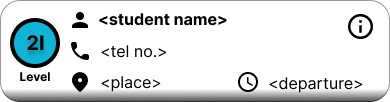
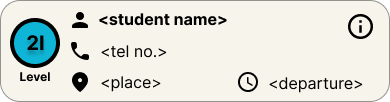
students list done

Changed region(s): [[0.0, 0.8824, 1.0, 1.0]]

diff --git a/app/src/main/java/com/example/timecontrol/StudentsScreen.kt b/app/src/main/java/com/example/timecontrol/StudentsScreen.kt
@@ -1,45 +1,38 @@
 package com.example.timecontrol
 
-import android.widget.Toast
-import androidx.compose.foundation.background
+import androidx.compose.foundation.BorderStroke
+import androidx.compose.foundation.border
 import androidx.compose.foundation.layout.Arrangement
 import androidx.compose.foundation.layout.Box
-import androidx.compose.foundation.layout.Column
-import androidx.compose.foundation.layout.Row
+import androidx.compose.foundation.layout.fillMaxSize
 import androidx.compose.foundation.layout.fillMaxWidth
-import androidx.compose.foundation.layout.height
 import androidx.compose.foundation.layout.padding
 import androidx.compose.foundation.layout.size
-import androidx.compose.foundation.layout.width
 import androidx.compose.foundation.lazy.LazyColumn
-import androidx.compose.material3.Divider
+import androidx.compose.material3.FloatingActionButton
 import androidx.compose.material3.Icon
-import androidx.compose.material3.IconButton
-import androidx.compose.material3.Text
 import androidx.compose.runtime.Composable
 import androidx.compose.ui.Alignment
 import androidx.compose.ui.Modifier
 import androidx.compose.ui.graphics.Color
-import androidx.compose.ui.platform.LocalContext
 import androidx.compose.ui.res.painterResource
-import androidx.compose.ui.text.font.FontWeight
 import androidx.compose.ui.unit.dp
-import androidx.compose.ui.unit.sp
-import com.example.timecontrol.calendaritem.CalendarItem
-import com.example.timecontrol.data.dto.Quote
 import com.example.timecontrol.database.Student
-import com.example.timecontrol.quote.Quote
-import com.example.timecontrol.statstile.StatsTile
 import com.example.timecontrol.studentslistitem.StudentsListItem
-import com.example.timecontrol.ui.theme.Blue20
-import java.time.format.DateTimeFormatter
+import com.example.timecontrol.ui.theme.Blue10
+import com.example.timecontrol.ui.theme.BlueLogo
+import com.example.timecontrol.ui.theme.White80
 
 @Composable
 fun StudentsScreen(students: List<Student>) {
-    LazyColumn(
-        modifier = Modifier.fillMaxWidth(),
-        verticalArrangement = Arrangement.spacedBy(3.dp)
-    ) {
+    Box(modifier = Modifier.fillMaxSize())
+    {
+        LazyColumn(
+            modifier = Modifier.fillMaxWidth(),
+            verticalArrangement = Arrangement.spacedBy(3.dp)
+
+            //uncomment when database connected
+        ) {
 //        students.forEachIndexed { index, student ->
 //            item(index) {
 //                StudentsListItem(
@@ -50,23 +43,43 @@ fun StudentsScreen(students: List<Student>) {
 //                    departureDate = student.departureDate.format(DateTimeFormatter.ofPattern("dd.MM"))
 //                        .toString(),
 //                    onClick = {},
+//        background = if (it % 2 == 0) White80 else Blue10,
 //                    modifier = Modifier
 //                        .width(390.dp)
 //                        .height(102.dp)
 //                )
 //            }
+            //comment when database connected
+            items(20) {
+                StudentsListItem(
+                    level = "D",
+                    name = "Tomek",
+                    telNo = "123456789",
+                    placeOfStay = "Chałupy",
+                    departureDate = "10.09",
+                    onClick = {},
+                    background = if (it % 2 == 0) White80 else Blue10,
+                    modifier = Modifier.padding(2.dp)
+//                probably redundant - need to try on other device
+//                modifier =
+//                    Modifier
+//                        .fillMaxWidth()
+//                        .fillMaxHeight(0.5f).height(102.dp)
+                )
 
-        items(20) {
-            StudentsListItem(
-                level = "D",
-                name = "Tomek",
-                telNo = "123456789",
-                placeOfStay = "Chałupy",
-                departureDate = "10.09",
-                onClick = {},
-                modifier = Modifier
-                    .width(390.dp)
-                    .height(102.dp)
+            }
+        }
+        FloatingActionButton(
+            modifier = Modifier
+                .padding(16.dp)
+                .size(75.dp)
+                .align(Alignment.BottomEnd),
+            onClick = { /*TODO*/ },
+            containerColor = BlueLogo
+        ) {
+            Icon(
+                painter = painterResource(id = R.drawable.add_vector),
+                contentDescription = "Add Student"
             )
         }
     }

diff --git a/app/src/main/java/com/example/timecontrol/ui/theme/Color.kt b/app/src/main/java/com/example/timecontrol/ui/theme/Color.kt
@@ -4,6 +4,7 @@ import androidx.compose.ui.graphics.Color
 
 val White80 = Color(0xFFF6F4EB)
 
+val Blue10 = Color(0xFFC2E6F8)
 val Blue20 = Color(0xFF91C8E4)
 val Blue30 = Color(0xFF749BC2)
 val Blue40 = Color(0xFF4682A9)
